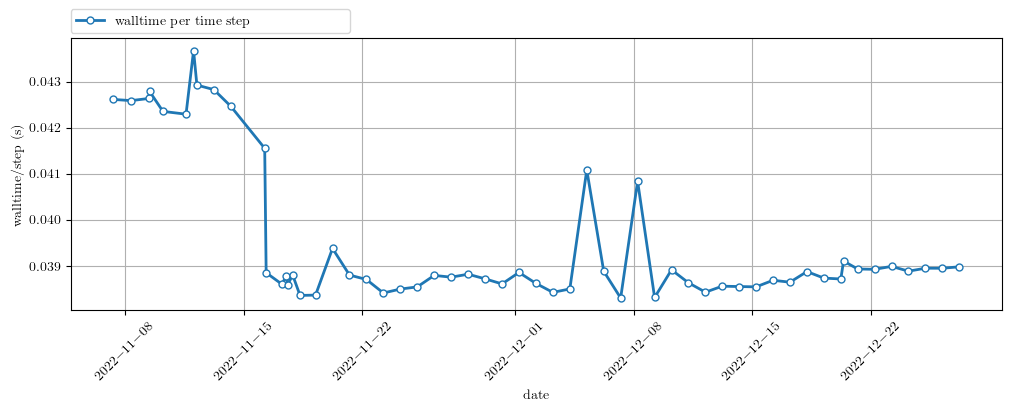
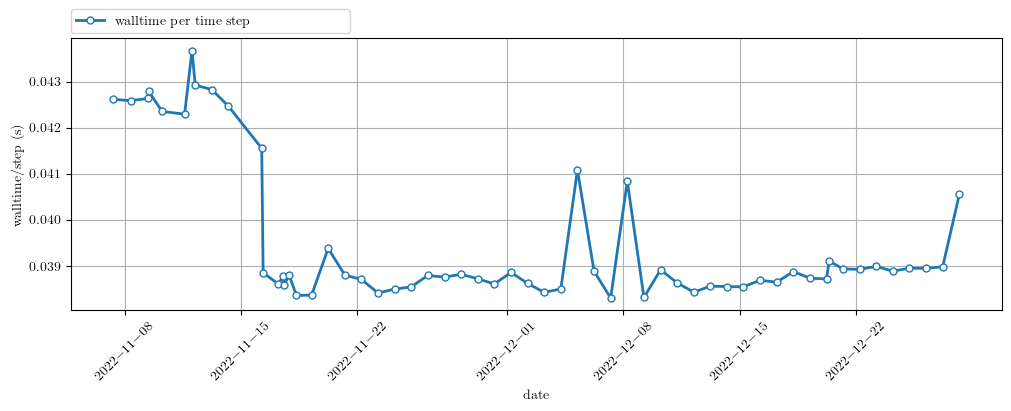
Automatic timing summary commit: lassen708 2022-12-28 05:01

diff --git a/README.md b/README.md
@@ -1,4 +1,4 @@
-Timings last ran on: 2022.12.27
+Timings last ran on: 2022.12.28
 
 # Status of production timings
 
